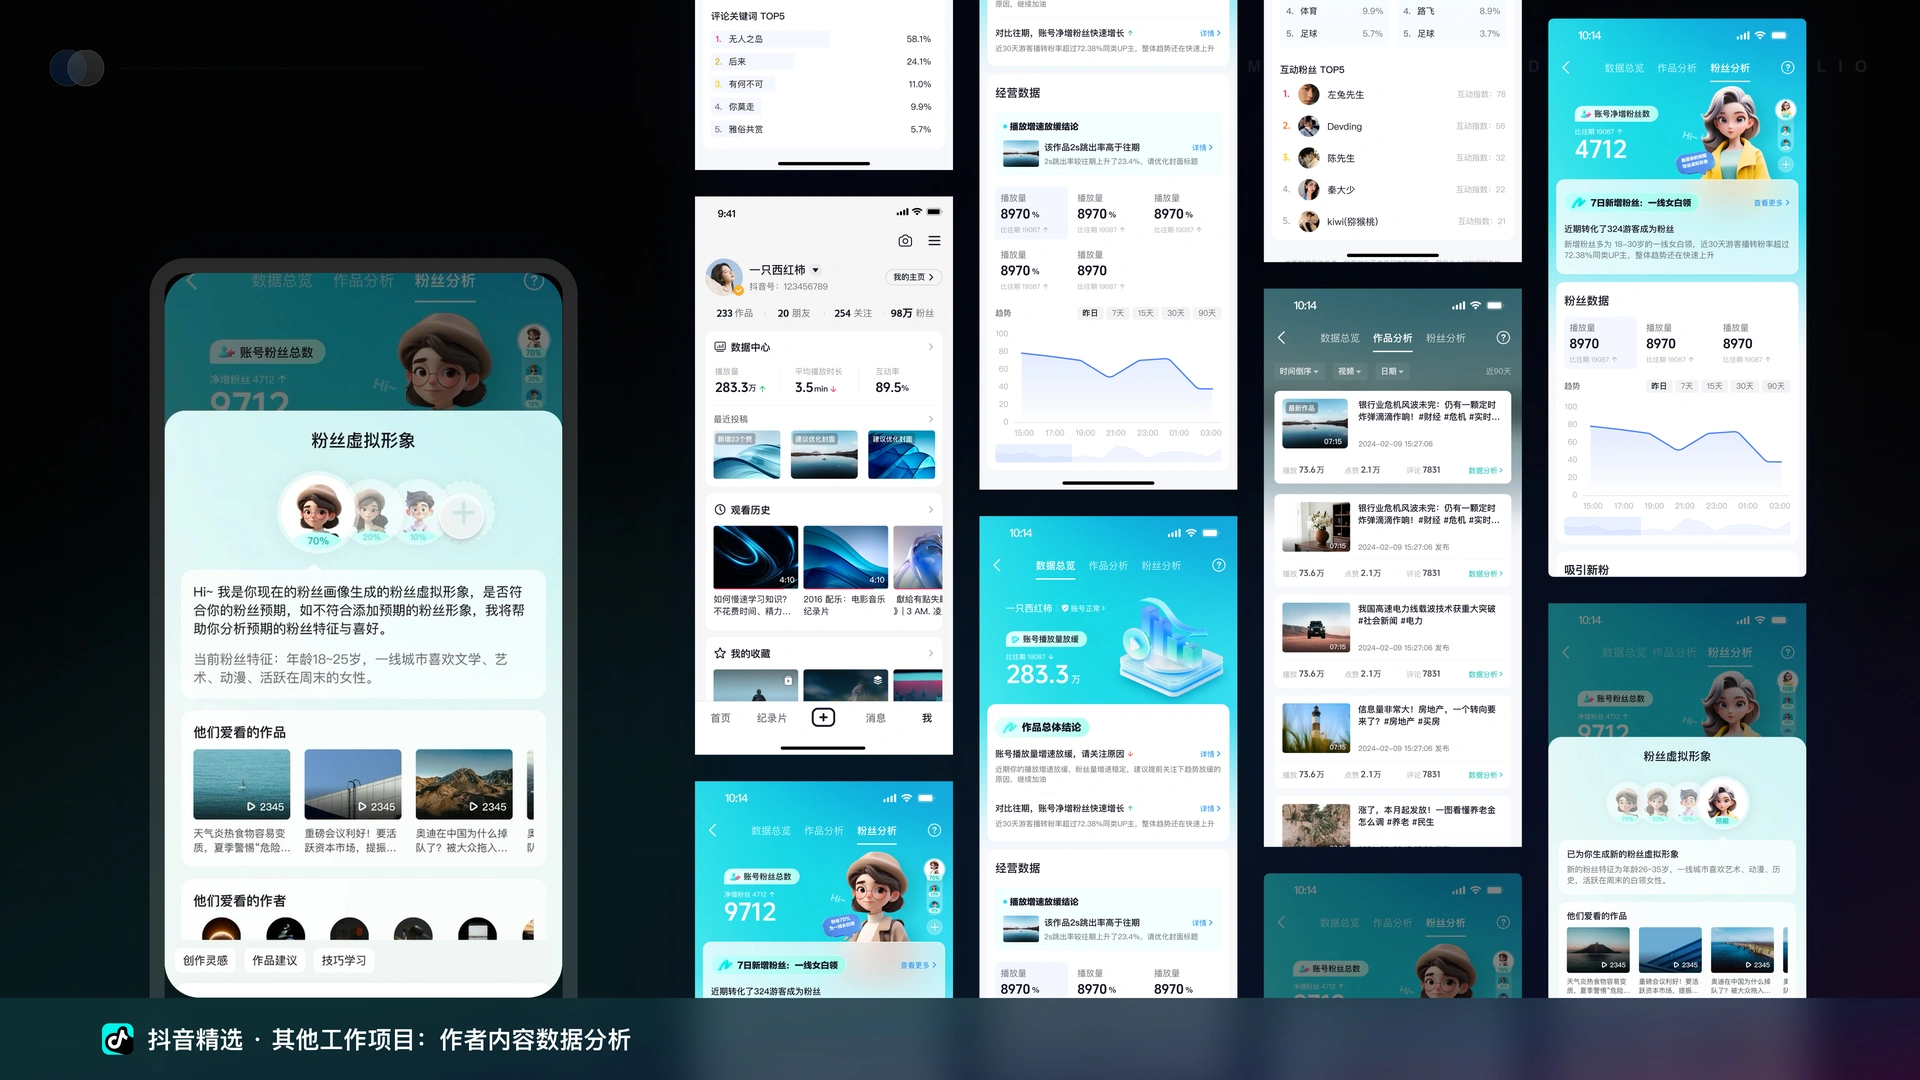
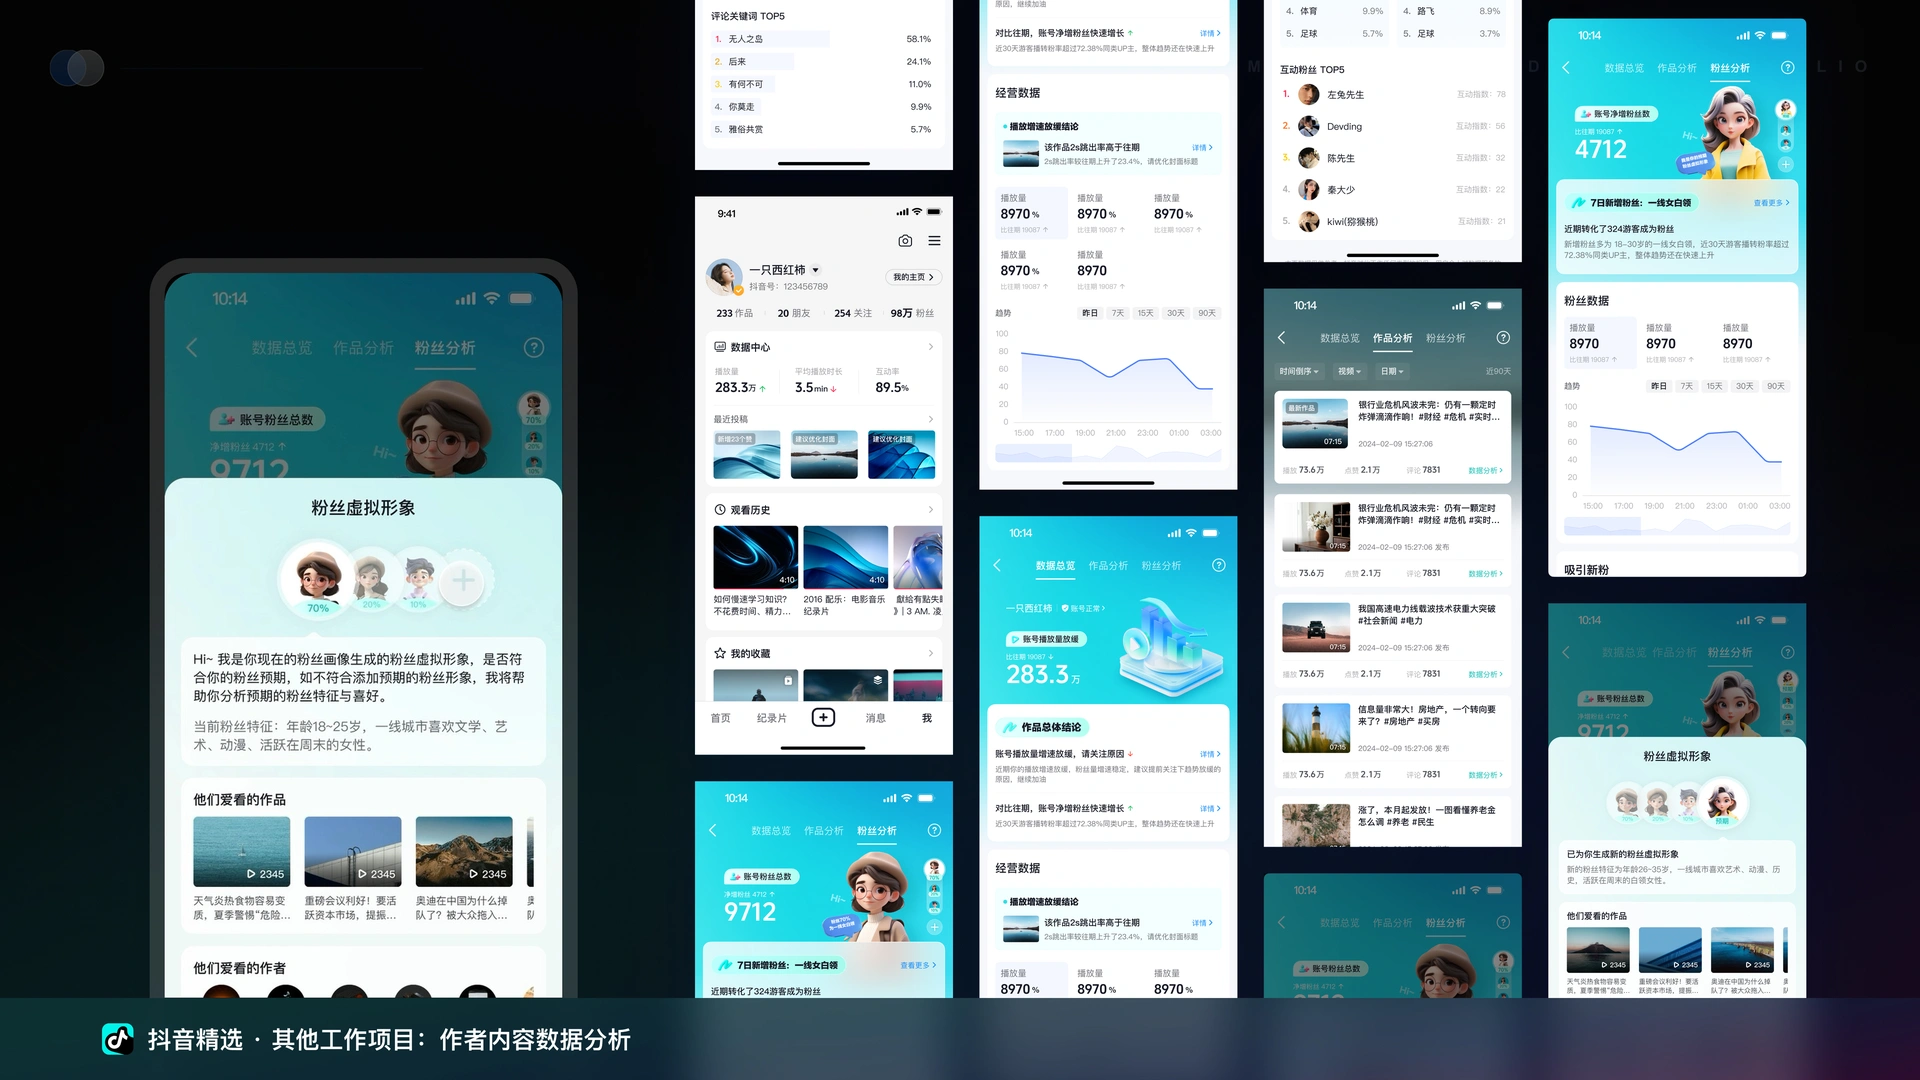
其他项目第3页视频顶部对齐、底部改直角
- 视频/海报 object-position 改为 top，画面与容器顶部对齐，底部由
  media-box 裁切
- 新增 radiusCorners 支持四角独立圆角：该框上方 1.6、下方 0，
  圆角与手机框顶部对齐，底部为直角
- 预合成 preview 同步按 top 裁切、上圆下方重新生成，转场一致
- 缩略图从新 preview 更新
- AGENTS.md §3.8 / §6.5 同步

验证：1440×900@2x 媒体框 computed radius tl/tr 19.7px、br/bl 0，
object-position 50% 0%，视频顶部对齐容器、底部直角裁切；
无 JS 报错、无 404。

Changed region(s): [[0.0625, 0.2444, 0.3125, 0.9472]]

diff --git a/script.js b/script.js
@@ -215,7 +215,9 @@ const bytedanceOtherSlides = bytedanceOtherOrder.map((fileNumber, index) => {
           poster: "assets/video/other-37-demo-poster.jpg",
           box: { x: 8.57, y: 25.29, w: 20.71, h: 67.09 },
           fit: "cover",
-          radius: 1.8,
+          objectPosition: "top",
+          radius: 1.6,
+          radiusCorners: { tl: 1.6, tr: 1.6, br: 0, bl: 0 },
           muted: false,
           loop: false,
           controls: "native"
@@ -987,6 +989,14 @@ function renderOverlays(slide) {
     box.style.width = `${overlay.box.w}%`;
     box.style.height = `${overlay.box.h}%`;
     box.style.setProperty("--media-radius", overlay.radius ?? 0);
+    if (overlay.radiusCorners) {
+      const corners = overlay.radiusCorners;
+      box.style.setProperty("--media-radius-tl", corners.tl ?? overlay.radius ?? 0);
+      box.style.setProperty("--media-radius-tr", corners.tr ?? overlay.radius ?? 0);
+      box.style.setProperty("--media-radius-br", corners.br ?? overlay.radius ?? 0);
+      box.style.setProperty("--media-radius-bl", corners.bl ?? overlay.radius ?? 0);
+    }
+    if (overlay.objectPosition) box.style.setProperty("--media-object-position", overlay.objectPosition);
     box.style.setProperty("--media-shadow", overlay.shadow ?? 0);
     if (overlay.z != null) box.style.zIndex = String(overlay.z);
     if (overlay.opacity != null) box.style.opacity = String(overlay.opacity);

diff --git a/styles.css b/styles.css
@@ -319,12 +319,15 @@ body[data-screen="viewer"] .site-header { grid-template-columns: auto minmax(0, 
   position: absolute;
   overflow: hidden;
   background: #0b0d10;
-  border-radius: calc(var(--frame-unit, 4px) * var(--media-radius, 0));
+  border-top-left-radius: calc(var(--frame-unit, 4px) * var(--media-radius-tl, var(--media-radius, 0)));
+  border-top-right-radius: calc(var(--frame-unit, 4px) * var(--media-radius-tr, var(--media-radius, 0)));
+  border-bottom-right-radius: calc(var(--frame-unit, 4px) * var(--media-radius-br, var(--media-radius, 0)));
+  border-bottom-left-radius: calc(var(--frame-unit, 4px) * var(--media-radius-bl, var(--media-radius, 0)));
   pointer-events: auto;
   box-shadow: 0 calc(var(--frame-unit, 4px) * var(--media-shadow, 0)) calc(var(--frame-unit, 4px) * var(--media-shadow, 0) * 2.6) rgba(0, 0, 0, .45);
 }
 .media-poster,
-.media-video { position: absolute; inset: 0; display: block; width: 100%; height: 100%; object-fit: cover; }
+.media-video { position: absolute; inset: 0; display: block; width: 100%; height: 100%; object-fit: cover; object-position: var(--media-object-position, center); }
 .media-box.is-contain .media-poster,
 .media-box.is-contain .media-video { object-fit: contain; }
 /* .artwork-frame img (class + element) otherwise forces contain on every

diff --git a/AGENTS.md b/AGENTS.md
@@ -133,15 +133,16 @@
 ### 3.8 复合页（PPT 背景图 + 视频框）
 
 - **形态**：一页 = 一张 PPT 导出的 16:9 背景图 + 叠在背景上的 1..n 个视频框；视频与这一页绑定，翻页时整页一起走。
-- **数据**：`{ type: "composite", src, variants, background, thumb, alt, overlays: [{ kind: "video", id, label, src, poster, box: { x, y, w, h }, fit, radius, muted, loop, controls, play }] }`；`src` 是背景 + poster 预合成的预览图（用于统一翻页/克隆层），`background` 保留原始背景，旧图片页零迁移。
+- **数据**：`{ type: "composite", src, variants, background, thumb, alt, overlays: [{ kind: "video", id, label, src, poster, box: { x, y, w, h }, fit, radius, radiusCorners?, objectPosition?, muted, loop, controls, play }] }`；`src` 是背景 + poster 预合成的预览图（用于统一翻页/克隆层），`background` 保留原始背景；`radiusCorners` 可分别设置四角，`objectPosition` 控制媒体裁切焦点。旧图片页零迁移。
 - **定位**：`box` 用百分比（相对整页），`radius`/`shadow` 用「页宽的百分比」——`sizeArtworkFrame()` 把页宽写入 `--frame-unit`，CSS 用 `calc(var(--frame-unit) * var(--media-radius))`。实测 6 个视口 x/y/w/h 与清单完全一致、圆角随页宽 2.7→4.1px 等比缩放。
 - **播放**：默认**点击播放**——未播放只有 poster + 居中 ▶，`<video>` 连 `src` 都没有（零流量）；点击才注入 `src`，显示原生控件、默认不静音（数据 `muted:false`，`volume:1`）；**同一页只播一个**（点新的先暂停旧的且不回弹 ▶，用原生控件继续）；播完 ▶ 重新出现用于重播。源视频目前无音轨时仍无声。
 - **翻页与进出场**：视频页与其他页统一使用 640ms `translateY` 上下翻页。转场期间隐藏 overlay canvas、使用预合成 `src` 预览图（背景 + poster）参与滑动/克隆层；转场结束后再显示 canvas。这样既保持全局滚动一致，也不会移动 `<video>`。
 - **清理**：离开页面 / 退出预览时销毁 `<video>`（`pause()` + 移除 `src` + `load()`）；实测翻走后 `<video>` 元素 0 个、`[data-slide-canvas]` 隐藏。
 - **缩略图**：背景图 + 蓝色 `▶` 角标（多个视频显示数量），`aria-label` 追加「（含视频）」。
 - **视频铺满**：视频/ poster 的 `object-fit` 必须是 `cover`，让画面填满手机框；`.artwork-frame img` 的全局 `contain` 会覆盖普通 `.media-poster` 规则，必须用 `.artwork-frame .media-poster/.media-video` 这类更高特异性选择器修正，否则框内会出现黑边缝隙。
+- **顶部对齐 + 直角底部**：其他项目第 3 页视频设置 `objectPosition:"top"`，只保留上方两个圆角（`radiusCorners { tl/tr: 1.6, br/bl: 0 }`），底部被媒体框直接裁切；预览图也按同样的 top 裁切、上圆下方生成。
 - **当前视频页**：
-  - 抖音其他项目第 3 页（`other/01-preview.jpg`）：1 个视频框 `x 8.57 / y 25.29 / w 20.71 / h 67.09`，接 `other-37-demo.mp4`（来源 `37.mov`）；
+  - 抖音其他项目第 3 页（`other/01-preview.jpg`）：1 个视频框 `x 8.57 / y 25.29 / w 20.71 / h 67.09`，`objectPosition: top`、上方圆角 1.6 / 下方 0，接 `other-37-demo.mp4`（来源 `37.mov`）；
   - 抖音AI封面第 6 页（`ai-cover/06-preview.jpg`）：1 个视频框 `x 8.63 / y 30.69 / w 18.87 / h 70`，接 `ai-cover-39-demo.mp4`（来源 `对应20240539.mov`）；
   - 抖音AI封面第 7 页（`ai-cover/07-preview.jpg`）：3 个视频框 `x 29.7 / 52.14 / 74.64`、`y 33.12`、`w 17.8 / 17.8 / 17.74`、`h 70`，分别接 `ai-cover-step-1/2/3.mp4`（来源 `20240540-1/2/3.mov`）；
   - 个人AI转型实践第 6 页（`assets/demo/ai-reading-01-preview.jpg`）：1 个视频框 `x 41.02 / y 33.01 / w 52.45 / h 54.35`，接 `demo-1080p.mp4`（demo 占位）；
@@ -246,6 +247,7 @@
 - PNG 图层与视频共用百分比坐标体系，支持层级、透明度、适配方式和等比圆角；分层 PPT 应先用现有编辑器或坐标转换工具校验后再入库。
 - 「个人AI转型实践」第 6 页保留当前复合页实现；正式视频到位后只替换数据中的 `src` 与 `poster`。
 - 抖音其他项目第 3 页、抖音AI封面第 6/7 页为视频复合页；视频/ poster 与框坐标以 §3.8 为准；播放器不强制静音，但源视频目前无音轨。
+- 抖音其他项目第 3 页视频顶部对齐媒体框，仅上方圆角、底部直角并被裁切；其他视频页仍四角圆角。
 - 抖音创作服务平台第 13 页为滚动叠加页（原 13–16 页），层切换 560ms，页码不变；规则以 §3.10 为准。
 
 ### 6.6 工程、部署与验收基线
